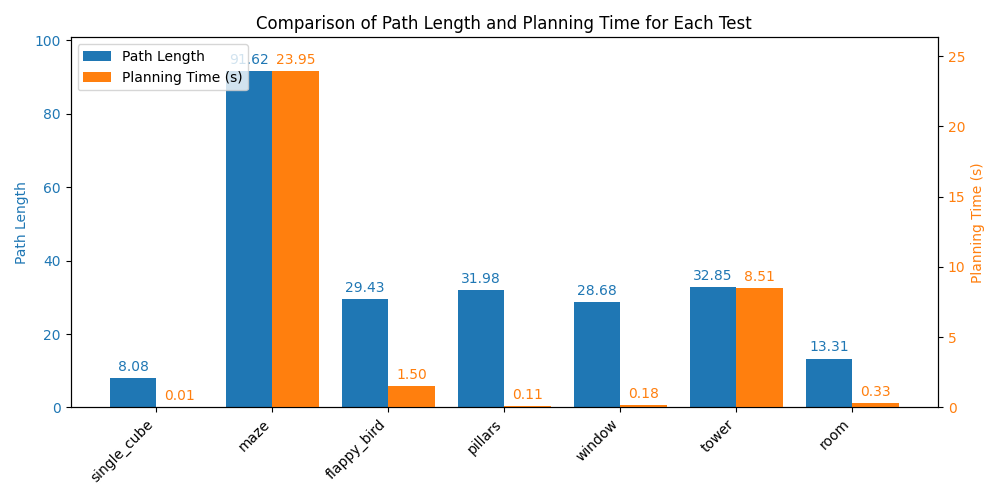
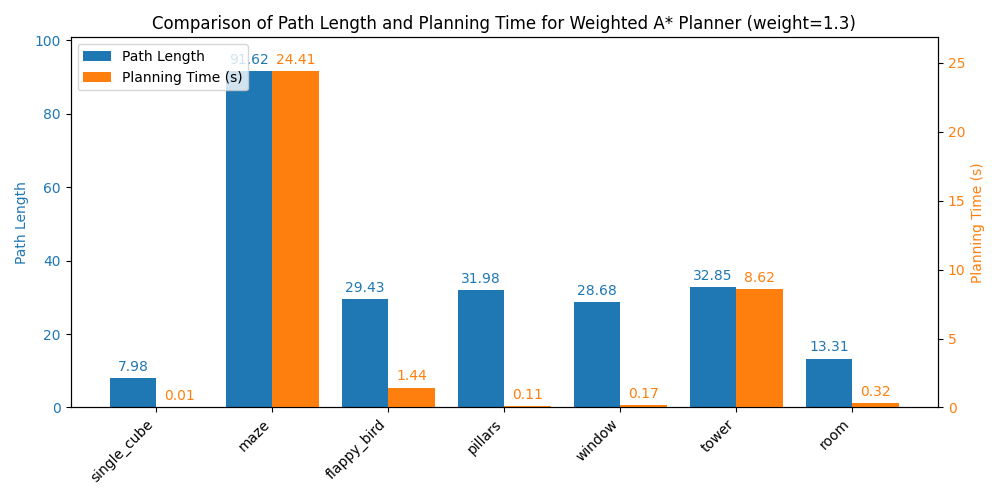
add arg

diff --git a/B_PR2/main.py b/B_PR2/main.py
@@ -3,8 +3,10 @@ import time
 import matplotlib.pyplot as plt; plt.ion()
 from mpl_toolkits.mplot3d import Axes3D
 from mpl_toolkits.mplot3d.art3d import Poly3DCollection
-# import Planner
-import Planner_weighted_Astar as Planner
+import argparse
+import Planner
+import Planner_weighted_Astar
+import Planner_bi_RRT
 
 def tic():
   return time.time()
@@ -72,7 +74,7 @@ def draw_block_list(ax,blocks):
     h = ax.add_collection3d(pc)
     return h
 
-def plot_performance(labels, lengths, times):
+def plot_performance(planner, weight, labels, lengths, times):
     x = np.arange(len(labels))
     width = 0.4
 
@@ -100,11 +102,13 @@ def plot_performance(labels, lengths, times):
     # X axis settings
     ax1.set_xticks(x)
     ax1.set_xticklabels(labels, rotation=45, ha='right')
-    ax1.set_title('Comparison of Path Length and Planning Time for Each Test')
+    if planner == 'bi_RRT':
+      ax1.set_title('Comparison of Path Length and Planning Time for Bi-RRT Planner')
+    elif planner == 'weighted_Astar':
+      ax1.set_title(f'Comparison of Path Length and Planning Time for Weighted A* Planner (weight={weight})')
 
-    # 注：bars1, bars2 是上面创建的两个 BarContainer
-    ax1.bar_label(bars1, fmt='%.2f', padding=3, color=color1)  # 路径长度保留两位小数
-    ax2.bar_label(bars2, fmt='%.2f', padding=3, color=color2)  # 时间保留三位小数
+    ax1.bar_label(bars1, fmt='%.2f', padding=3, color=color1) 
+    ax2.bar_label(bars2, fmt='%.2f', padding=3, color=color2)  
 
     # Only pass in the two legend handles we want, avoiding internal artist
     ax1.legend([bars1, bars2],
@@ -114,7 +118,7 @@ def plot_performance(labels, lengths, times):
     plt.tight_layout()
     plt.show(block=True)
 
-def runtest(mapfile, start, goal, verbose = False, weight=1.0, res=0.5):
+def runtest(planner,mapfile, start, goal, verbose = False, weight=1.0, res=0.5):
   '''
   This function:
    * loads the provided mapfile
@@ -125,59 +129,75 @@ def runtest(mapfile, start, goal, verbose = False, weight=1.0, res=0.5):
   '''
   # Load a map and instantiate a motion planner
   boundary, blocks = load_map(mapfile)
-  MP = Planner.MyPlanner(boundary=boundary, blocks=blocks, weight=weight, res=res) # TODO: replace this with your own planner implementation
-  
+  if planner == 'bi_RRT':
+    MP = Planner_bi_RRT.MyPlanner(boundary=boundary, blocks=blocks, res=res) # TODO: replace this with your own planner implementation
+  elif planner == 'weighted_Astar':
+    MP = Planner_weighted_Astar.MyPlanner(boundary=boundary, blocks=blocks, res=res, weight=weight)
+  else:
+    MP = Planner.MyPlanner(boundary=boundary, blocks=blocks, res=res)
+
   # Display the environment
   if verbose:
     fig, ax, hb, hs, hg = draw_map(boundary, blocks, start, goal)
 
   # Call the motion planner
   t0 = tic()
-  path = MP.plan(start, goal)
+  path = MP.plan(start=start, goal=goal)
   delta_time = time.time() - t0
   # toc(t0,"Planning")
   
   
   # Plot the path
-  if verbose:
+  if verbose and path is not None:
     ax.plot(path[:,0],path[:,1],path[:,2],'r-')
 
   # TODO: You should verify whether the path actually intersects any of the obstacles in continuous space
   # TODO: You can implement your own algorithm or use an existing library for segment and 
   #       axis-aligned bounding box (AABB) intersection
-  collision = False
-  goal_reached = sum((path[-1]-goal)**2) <= 0.1
-  success = (not collision) and goal_reached
-  pathlength = np.sum(np.sqrt(np.sum(np.diff(path,axis=0)**2,axis=1)))
+  if path is not None:
+    success = True
+    pathlength = np.sum(np.sqrt(np.sum(np.diff(path,axis=0)**2,axis=1)))
+  else:
+    success = False
+    pathlength = 0.0
   return success, pathlength, delta_time
 
 if __name__=="__main__":
+  # Parse command line arguments
+  parser = argparse.ArgumentParser(description='Test the motion planner.')
+  parser.add_argument('--planner', type=str, default='bi_RRT', help='The motion planner to use (default: bi_RRT), choices: [bi_RRT, weighted_Astar]')
+  parser.add_argument('--weight', type=float, default=1.0, help='The weight for the weighted A* planner (default: 1.0)')
+  parser.add_argument('--verbose', action='store_true', help='Enable verbose output')
+  args = parser.parse_args()
   # name, fname, start, goal, weight, step_size
-    tests = [
-        ("single_cube",    "./maps/single_cube.txt",    np.array([7.0,7.0,5.5]),  np.array([2.3,2.3,1.3]), 1.5, 0.3),
-        ("maze",           "./maps/maze.txt",           np.array([0.0,0.0,1.0]),  np.array([12.0,12.0,5.0]), 1.5, 0.5),
-        ("flappy_bird",    "./maps/flappy_bird.txt",    np.array([0.5,4.5,5.5]),  np.array([19.5,1.5,1.5]), 1.5, 0.5),
-        ("pillars",        "./maps/pillars.txt",        np.array([0.5,0.5,0.5]),  np.array([19.0,19.0,9.0]), 1.5, 0.5),
-        ("window",         "./maps/window.txt",         np.array([6.0,-4.9,2.8]), np.array([2.0,19.5,5.5]), 1.5, 0.5),
-        ("tower",          "./maps/tower.txt",          np.array([4.0,2.5,19.5]), np.array([2.5,4.0,0.5]), 1.5, 0.5),
-        ("room",           "./maps/room.txt",           np.array([1.0,5.0,1.5]),  np.array([9.0,7.0,1.5]), 1.5, 0.5),
-    ]
-
-    labels = []
-    lengths = []
-    times   = []
-    for name, fname, start, goal, weight, res in tests:
-        success, L, T = runtest(fname, start, goal, weight=weight, res=res)
-        if success:
-          labels.append(name)
-          lengths.append(L)
-          times.append(T)
-          print("Test", name, "passed", "length:", L, "time:", T)
-        else:
-          print("Test", name, "failed")
-    
-    # Plot the performance
-    plot_performance(labels, lengths, times)
+  tests = [
+      ("single_cube",    "./maps/single_cube.txt",    np.array([7.0,7.0,5.5]),  np.array([2.3,2.3,1.3]),  0.5),
+      ("maze",           "./maps/maze.txt",           np.array([0.0,0.0,1.0]),  np.array([12.0,12.0,5.0]),  0.5),
+      ("flappy_bird",    "./maps/flappy_bird.txt",    np.array([0.5,4.5,5.5]),  np.array([19.5,1.5,1.5]),  0.5),
+      ("pillars",        "./maps/pillars.txt",        np.array([0.5,0.5,0.5]),  np.array([19.0,19.0,9.0]), 0.5),
+      ("window",         "./maps/window.txt",         np.array([6.0,-4.9,2.8]), np.array([2.0,19.5,5.5]),  0.5),
+      ("tower",          "./maps/tower.txt",          np.array([4.0,2.5,19.5]), np.array([2.5,4.0,0.5]),  0.5),
+      ("room",           "./maps/room.txt",           np.array([1.0,5.0,1.5]),  np.array([9.0,7.0,1.5]), 0.5),
+  ]
+  
+  labels = []
+  lengths = []
+  times   = []
+  planner = args.planner
+  weight = args.weight
+  verbose = args.verbose
+  for name, fname, start, goal, res in tests:
+      success, L, T = runtest(planner, fname, start, goal, res=res, weight=weight, verbose=verbose,)
+      if success:
+        labels.append(name)
+        lengths.append(L)
+        times.append(T)
+        print("Test", name, "passed", "length:", L, "time:", T)
+      else:
+        print("Test", name, "failed")
+  
+  # Plot the performance
+  plot_performance(planner, weight, labels, lengths, times)
 
 
 

diff --git a/B_PR2/Planner_bi_RRT.py b/B_PR2/Planner_bi_RRT.py
@@ -1,0 +1,165 @@
+import numpy as np
+from collision_test import is_segment_collision_free
+
+
+class MyPlanner:
+    """Bi‑directional RRT planner.
+
+    Parameters
+    ----------
+    boundary : (6,) array‑like
+        [xmin, ymin, zmin, xmax, ymax, zmax].  The planner will only sample
+        configuration points inside this axis‑aligned box.
+    blocks : (M, 6) array‑like
+        A list of axis‑aligned rectangular obstacles.  Each obstacle is
+        [xmin, ymin, zmin, xmax, ymax, zmax].  The helper function
+        ``is_segment_collision_free`` is used for collision detection.
+    res : float, optional
+        Nominal step size for tree extension (default 0.5 m).  This is *not*
+        a grid resolution – the planner is fully continuous, but every new
+        vertex is at most ``res`` metres from its parent.
+    step : float, optional
+        If provided, overrides ``res`` as the extension length.
+    max_iter : int, optional
+        Maximum number of bidirectional expansion iterations (default 20 000).
+    p_goal : float, optional
+        Probability of directly sampling the opposite tree’s root when
+        drawing a random sample (goal‑biasing, default 0.05).
+    """
+
+    __slots__ = [
+        "boundary",
+        "blocks",
+        "res",
+        "step",
+        "max_iter",
+        "p_goal",
+    ]
+
+    def __init__(
+        self,
+        boundary,
+        blocks,
+        res=0.5,
+        step=None,
+        max_iter=20_000,
+        p_goal=0.05,
+    ):
+        self.boundary = np.asarray(boundary, dtype=float).reshape(-1)
+        self.blocks = np.asarray(blocks, dtype=float)
+        self.res = float(res)
+        self.step = float(step) if step is not None else float(res)
+        self.max_iter = int(max_iter)
+        self.p_goal = float(p_goal)
+
+    # ------------------------------------------------------------------
+    # Internal helpers
+    # ------------------------------------------------------------------
+    def _inside(self, p: np.ndarray) -> bool:
+        """Return True if point *p* lies strictly within the global boundary."""
+        return bool(np.all(p >= self.boundary[:3]) and np.all(p <= self.boundary[3:6]))
+
+    def _sample(self, root: np.ndarray) -> np.ndarray:
+        """Randomly sample a point inside the boundary (goal‑biasing)."""
+        if np.random.rand() < self.p_goal:
+            # With small prob, sample the *root* of the opposite tree
+            return root.copy()
+        lo, hi = self.boundary[:3], self.boundary[3:6]
+        return np.random.uniform(lo, hi)
+
+    @staticmethod
+    def _nearest(vertices: list[np.ndarray], q_rand: np.ndarray) -> int:
+        """Return index of the vertex in *vertices* that is closest to *q_rand*."""
+        dists = np.linalg.norm(np.asarray(vertices) - q_rand, axis=1)
+        return int(dists.argmin())
+
+    def _steer(self, q_near: np.ndarray, q_rand: np.ndarray) -> np.ndarray | None:
+        """Return a new configuration stepping from *q_near* toward *q_rand*.
+        The step length is clipped to ``self.step``.  If *q_rand* coincides with
+        *q_near*, returns None.
+        """
+        v = q_rand - q_near
+        d = np.linalg.norm(v)
+        if d < 1e-12:
+            return None
+        return q_near + v * (min(self.step, d) / d)
+
+    def _collision_free(self, p: np.ndarray, q: np.ndarray) -> bool:
+        return is_segment_collision_free(p, q, self.blocks, self.boundary)
+
+    # ------------------------------------------------------------------
+    # Public API
+    # ------------------------------------------------------------------
+    def plan(self, start, goal):
+        """Plan a collision‑free path from *start* to *goal*.
+        Returns
+        -------
+        numpy.ndarray | None
+            ``(N, 3)`` sequence of way‑points including *start* and *goal*, or
+            *None* if planning failed within ``max_iter``.
+        """
+        start, goal = map(lambda x: np.asarray(x, dtype=float), (start, goal))
+
+        # ≡ Two RRT trees: A rooted at start, B rooted at goal -------------
+        tree_a = {"V": [start], "P": [-1]}  # vertices, parent indices
+        tree_b = {"V": [goal], "P": [-1]}
+
+        for _ in range(self.max_iter):
+            # 1) Extend Tree A toward a random sample
+            q_rand = self._sample(tree_b["V"][0])
+            idx_near = self._nearest(tree_a["V"], q_rand)
+            q_new = self._steer(tree_a["V"][idx_near], q_rand)
+            if q_new is None or not self._inside(q_new):
+                continue
+            if not self._collision_free(tree_a["V"][idx_near], q_new):
+                continue
+
+            tree_a["V"].append(q_new)
+            tree_a["P"].append(idx_near)
+            idx_new_a = len(tree_a["V"]) - 1
+
+            # 2) Try to connect Tree B toward the new node
+            idx_near_b = self._nearest(tree_b["V"], q_new)
+            q_cur = tree_b["V"][idx_near_b]
+            idx_parent = idx_near_b
+            connected = False
+
+            while True:
+                q_next = self._steer(q_cur, q_new)
+                if q_next is None:
+                    break
+                if not self._collision_free(q_cur, q_next):
+                    break
+                # Add q_next to Tree B
+                tree_b["V"].append(q_next)
+                tree_b["P"].append(idx_parent)
+                idx_parent = len(tree_b["V"]) - 1
+                q_cur = q_next
+                # Trees meet?
+                if np.linalg.norm(q_cur - q_new) < self.step * 0.5:
+                    connected = True
+                    idx_connect_b = idx_parent
+                    break
+
+            if connected:
+                # 3) A‑侧：反向回溯完后立刻反转
+                path_a = []
+                idx = idx_new_a
+                while idx != -1:
+                    path_a.append(tree_a["V"][idx])     # q_new → … → start
+                    idx = tree_a["P"][idx]
+                path_a.reverse()                        # start → … → q_new
+
+                # 4) B‑侧：保持回溯得到的顺序（q_cur → … → goal），
+                #    然后不反转，直接拼在后面
+                path_b = []
+                idx = idx_connect_b
+                while idx != -1:
+                    path_b.append(tree_b["V"][idx])
+                    idx = tree_b["P"][idx]
+                # path_b  = q_cur → … → goal
+
+                # 5) 拼接
+                return np.vstack((path_a + path_b))
+
+        return None  # planning failed

diff --git a/B_PR2/collision_test.py b/B_PR2/collision_test.py
@@ -49,8 +49,8 @@ def is_segment_collision_free(p0, p1, blocks, boundary):
             return False
 
     # 2) 与每个障碍块检测线段–AABB 相交
-    #    假设 blocks[:, :6] 是 [xmin,ymin,zmin,xmax,ymax,zmax]
-    for blk in blocks[:, :6]:
+    #    假设 blocks[:,:6] 是 [xmin,ymin,zmin,xmax,ymax,zmax]
+    for blk in blocks[:,:6]:
         if segment_intersects_aabb(p0, p1, blk):
             return False
 
